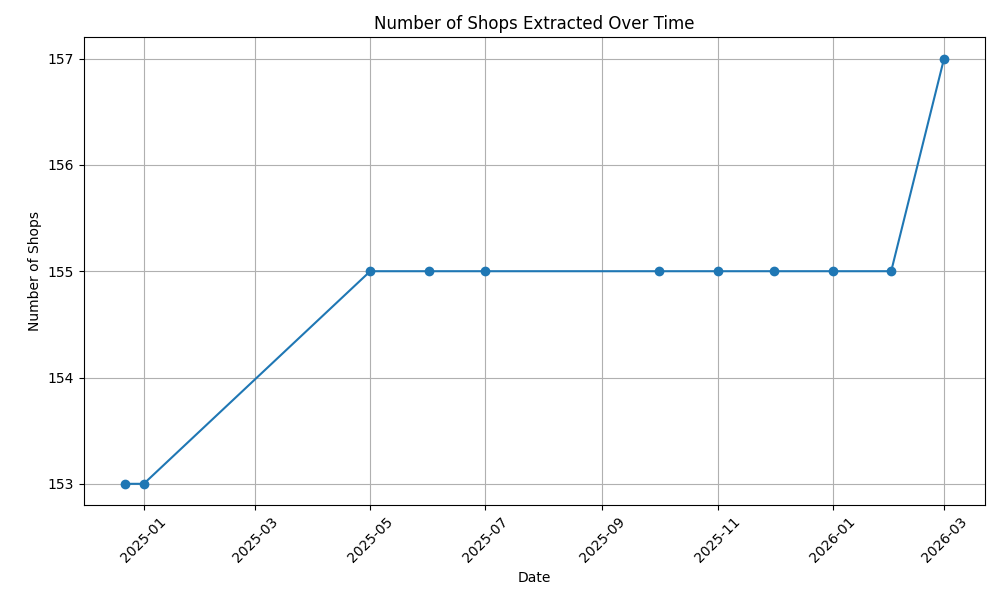
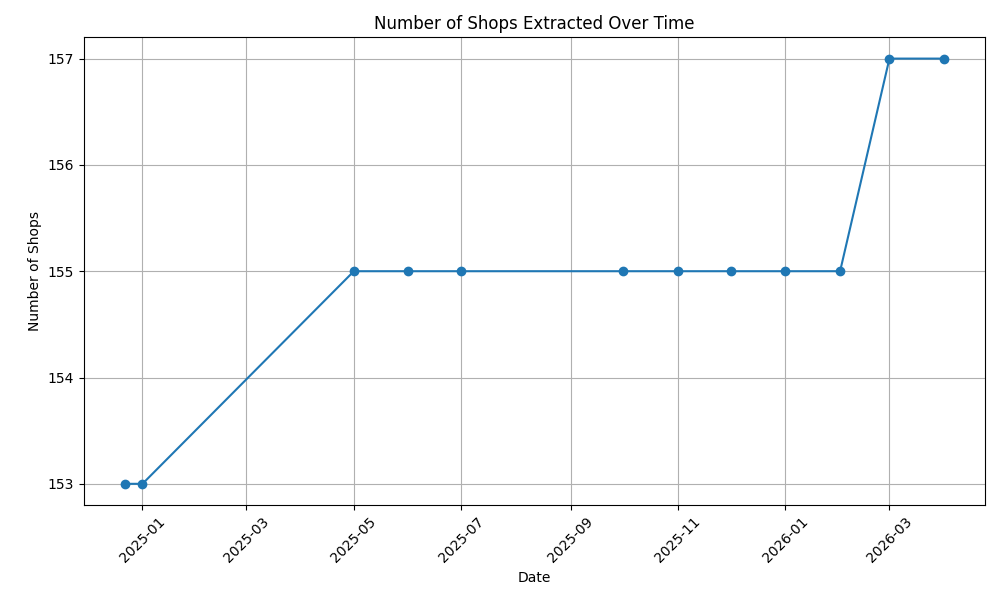
Stokomani 2026-04-01

diff --git a/Stokomani/README.md b/Stokomani/README.md
@@ -1,10 +1,10 @@
 # Stokomani 🏷
 
-**Data last updated on: 2026-03-01**
+**Data last updated on: 2026-04-01**
 
 Data scraped from: [Stokomani](https://www.stokomani.fr)
 
-![History Diagram](shop_count_history.png?img_date=2026-03-01)
+![History Diagram](shop_count_history.png?img_date=2026-04-01)
 
 ## 📅 Use the Latest Data Scraped Each Month
 
